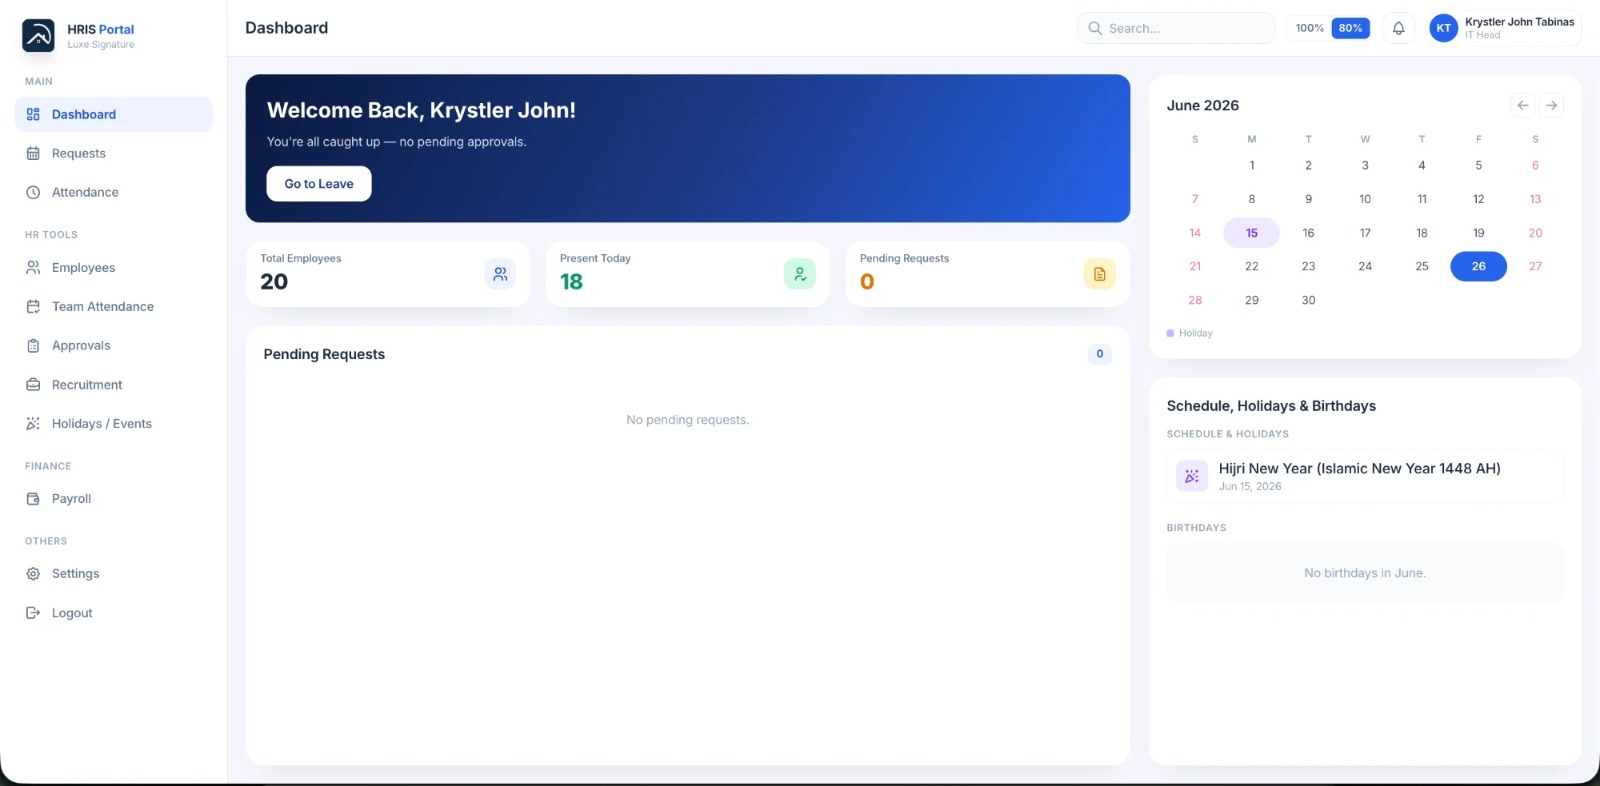
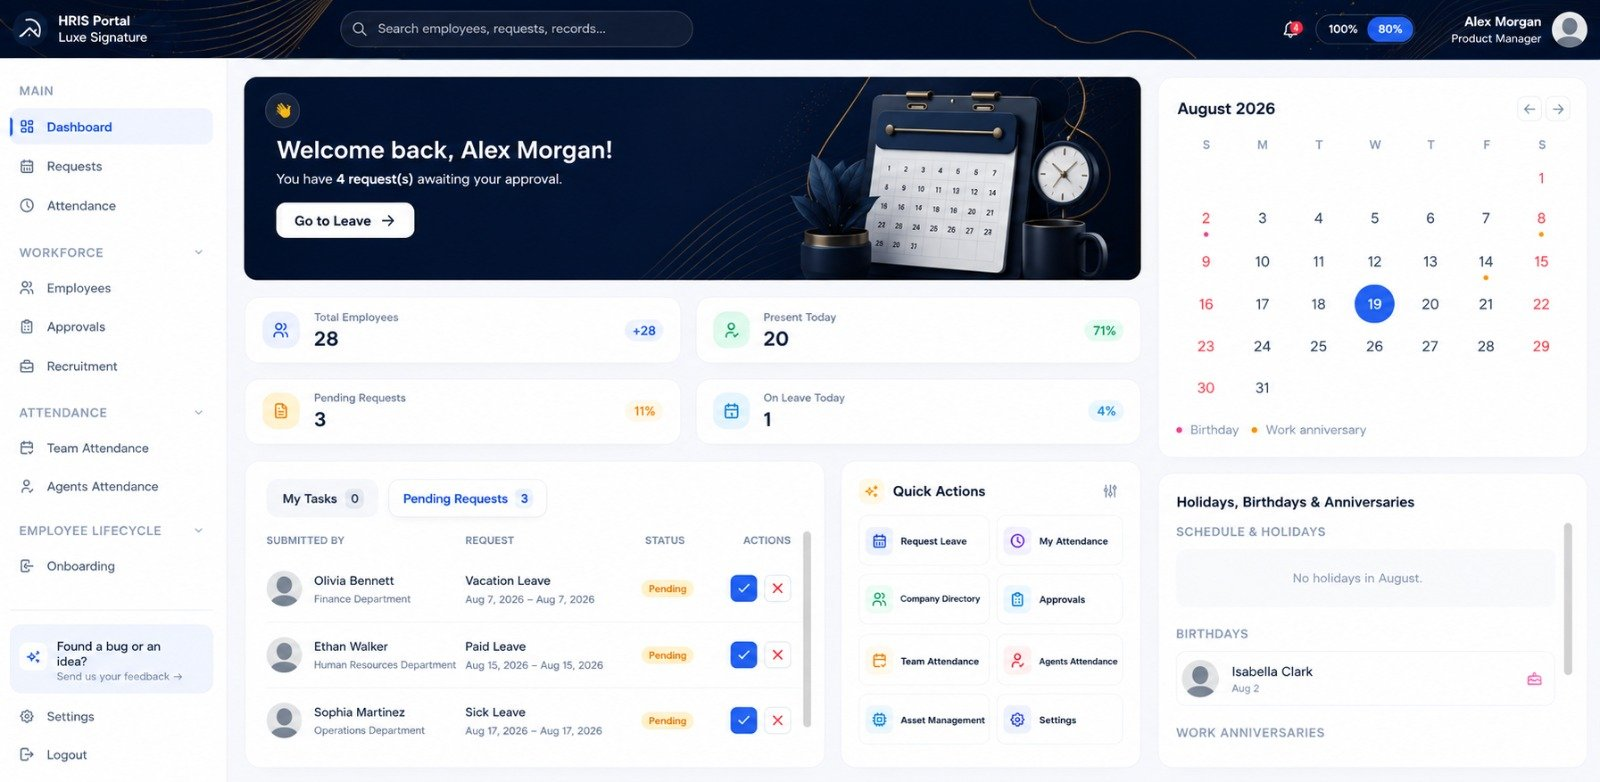
Add Maal budget tracker project and refresh HRIS
Projects section:
- Add Maal as the newest project: a wide branded cover slide plus five
  device-framed app screens (dashboard, wallet, budget, goals, installments).
- Rename "Luxe HRIS" to "HRIS" and drop the client name from its blurb.
- Replace every HRIS screenshot with the new set — cover banner, dashboard,
  employee directory, approvals and profile.

Carousel rendering:
- New hasDeviceFrame flag: screenshots that already ship inside a rendered
  phone are shown as-is instead of being wrapped in the site's phone shell
  a second time.
- New bannerCover flag: a wide marketing banner fills the panel edge to edge
  rather than being letterboxed next to the portrait phone shots.
- Pull the carousel dots and the slide label out into shared widgets so both
  the framed and unframed paths use them; dots take a light palette on the
  banner slide so they read against the artwork.

Assets are cropped to the artwork, knocked out to transparency where they
sat on a solid page, downscaled and re-encoded — the six Maal images total
~520 KB and the five HRIS images ~720 KB. Source uploads at the assets/ root
are removed now that the processed copies exist.

Skills: add React Native, Expo and TypeScript.

Claude-Session: https://claude.ai/code/session_01BUVkvsR43W9QivpnnKvxp7

diff --git a/lib/sections/projects_section.dart b/lib/sections/projects_section.dart
@@ -21,6 +21,12 @@ class ProjectItem {
   final Color accentColor;
   final String status;
   final bool isMobileApp;
+  /// True when the screenshots already ship inside a rendered device frame, so
+  /// the site must not wrap them in its own phone shell a second time.
+  final bool hasDeviceFrame;
+  /// True when the first slide is a wide marketing banner rather than a screen,
+  /// so it fills the panel instead of being letterboxed with the phone shots.
+  final bool bannerCover;
   final bool isCodeProject;
   final String? liveUrl;
   final String? browserUrl;
@@ -37,6 +43,8 @@ class ProjectItem {
     required this.accentColor,
     required this.status,
     this.isMobileApp = false,
+    this.hasDeviceFrame = false,
+    this.bannerCover = false,
     this.isCodeProject = false,
     this.liveUrl,
     this.browserUrl,
@@ -45,6 +53,38 @@ class ProjectItem {
 }
 
 const _projects = [
+  ProjectItem(
+    title: 'Maal',
+    subtitle: 'Offline-First Budget Tracker for the Gulf',
+    description:
+        'A personal finance app built for how money actually moves in the Gulf. Tracks '
+        'multi-currency accounts and net worth, pace-aware budgets, savings goals, and '
+        'BNPL and loan installments — with full Arabic RTL, a 50+ GCC bank catalog, and '
+        'IBAN validation. Everything lives in on-device SQLite: no account, no server, '
+        'no analytics.',
+    image: 'assets/images/cover_maal.jpg',
+    imageAlt: 'assets/images/maal_dashboard.png',
+    extraImages: [
+      'assets/images/maal_wallet.png',
+      'assets/images/maal_budget.png',
+      'assets/images/maal_goals.png',
+      'assets/images/maal_installments.png',
+    ],
+    tags: ['React Native', 'Expo', 'TypeScript', 'SQLite', 'Offline-First', 'UAE / GCC'],
+    accentColor: Color(0xFF0A2C63),
+    status: 'In Development',
+    isMobileApp: true,
+    hasDeviceFrame: true,
+    bannerCover: true,
+    imageLabels: [
+      'Overview',
+      'Dashboard',
+      'Wallet',
+      'Budget',
+      'Goals',
+      'Installments',
+    ],
+  ),
   ProjectItem(
     title: 'Luxe PM',
     subtitle: 'Property Management Platform',
@@ -64,24 +104,24 @@ const _projects = [
     imageLabels: ['Overview', 'Login', 'Dashboard'],
   ),
   ProjectItem(
-    title: 'Luxe HRIS',
+    title: 'HRIS',
     subtitle: 'Human Resource Information System',
     description:
-        'A complete HRIS built from scratch for Luxe Signature. Handles employee records, '
-        'biometric attendance sync, leave and cash-advance requests, approval workflows, '
-        'payroll, and recruitment — with role-based dashboards and self-service for every employee.',
-    image: 'assets/images/cover_hris.png',
+        'A complete HRIS built from scratch. Handles employee records, biometric '
+        'attendance sync, leave and cash-advance requests, approval workflows, payroll, '
+        'and recruitment — with role-based dashboards and self-service for every employee.',
+    image: 'assets/images/cover_hris.jpg',
     imageAlt: 'assets/images/hris_dashboard.jpg',
     extraImages: [
-      'assets/images/hris_attendance.jpg',
-      'assets/images/hris_requests.jpg',
+      'assets/images/hris_directory.jpg',
+      'assets/images/hris_approvals.jpg',
       'assets/images/hris_profile.jpg',
     ],
     tags: ['Web App', 'Supabase', 'Workflow Automation', 'Biometric Sync', 'UAE'],
     accentColor: Color(0xFF4F46E5),
     status: 'Live',
     browserUrl: 'hris.luxesignature.ae',
-    imageLabels: ['Overview', 'Dashboard', 'Attendance', 'Requests', 'Profile'],
+    imageLabels: ['Overview', 'Dashboard', 'Directory', 'Approvals', 'Profile'],
   ),
   ProjectItem(
     title: 'Excel VBA Automation',
@@ -393,6 +433,61 @@ class _ScreenshotState extends State<_Screenshot>
               )),
             ],
           ),
+        ),
+      );
+    }
+
+    // Screenshots that already ship inside a device frame — show them as-is,
+    // no second phone shell around them.
+    if (widget.project.hasDeviceFrame) {
+      final images = _images;
+      final isBanner = widget.project.bannerCover && _index == 0;
+      return Container(
+        height: 384,
+        color: AppTheme.bgLight,
+        child: Stack(
+          children: [
+            Positioned.fill(
+              child: Padding(
+                padding: isBanner
+                    ? EdgeInsets.zero
+                    : const EdgeInsets.fromLTRB(24, 14, 24, 34),
+                child: FadeTransition(
+                  opacity: _fade,
+                  child: Image.asset(
+                    images[_index],
+                    fit: isBanner ? BoxFit.cover : BoxFit.contain,
+                    errorBuilder: (_, __, ___) => Center(
+                      child: Icon(Icons.smartphone_rounded,
+                          size: 48, color: widget.project.accentColor),
+                    ),
+                  ),
+                ),
+              ),
+            ),
+            if (images.length > 1)
+              Positioned(
+                bottom: 14,
+                left: 0,
+                right: 0,
+                child: _DotRow(
+                  count: images.length,
+                  index: _index,
+                  activeColor: isBanner
+                      ? Colors.white
+                      : widget.project.accentColor,
+                  inactiveColor: isBanner
+                      ? Colors.white.withValues(alpha: 0.45)
+                      : AppTheme.textLight.withValues(alpha: 0.4),
+                ),
+              ),
+            if (widget.project.imageLabels.length > _index)
+              Positioned(
+                bottom: 10,
+                right: 14,
+                child: _LabelChip(widget.project.imageLabels[_index]),
+              ),
+          ],
         ),
       );
     }
@@ -734,6 +829,63 @@ class _PhoneMockup extends StatelessWidget {
       ],
     );
   }
+}
+
+class _DotRow extends StatelessWidget {
+  final int count;
+  final int index;
+  final Color activeColor;
+  final Color? inactiveColor;
+  const _DotRow({
+    required this.count,
+    required this.index,
+    required this.activeColor,
+    this.inactiveColor,
+  });
+
+  @override
+  Widget build(BuildContext context) => Row(
+        mainAxisAlignment: MainAxisAlignment.center,
+        children: List.generate(count, (i) {
+          final active = i == index;
+          return AnimatedContainer(
+            duration: const Duration(milliseconds: 300),
+            margin: const EdgeInsets.symmetric(horizontal: 3),
+            width: active ? 20 : 6,
+            height: 6,
+            decoration: BoxDecoration(
+              color: active
+                  ? activeColor
+                  : (inactiveColor ??
+                      AppTheme.textLight.withValues(alpha: 0.4)),
+              borderRadius: BorderRadius.circular(3),
+            ),
+          );
+        }),
+      );
+}
+
+class _LabelChip extends StatelessWidget {
+  final String label;
+  const _LabelChip(this.label);
+
+  @override
+  Widget build(BuildContext context) => Container(
+        padding: const EdgeInsets.symmetric(horizontal: 10, vertical: 4),
+        decoration: BoxDecoration(
+          color: AppTheme.bgCream.withValues(alpha: 0.9),
+          borderRadius: BorderRadius.circular(20),
+          border: Border.all(color: AppTheme.border),
+        ),
+        child: Text(
+          label,
+          style: GoogleFonts.inter(
+            fontSize: 11,
+            color: AppTheme.textGray,
+            fontWeight: FontWeight.w600,
+          ),
+        ),
+      );
 }
 
 class _Dot extends StatelessWidget {

diff --git a/lib/data/portfolio_data.dart b/lib/data/portfolio_data.dart
@@ -60,8 +60,11 @@ class PortfolioData {
     'n8n',
     'Power Platform',
     'Flutter',
+    'React Native',
+    'Expo',
     'Python',
     'JavaScript',
+    'TypeScript',
     'Power BI',
   ];
 

diff --git a/README.md b/README.md
@@ -42,6 +42,9 @@ Then upload the `build/web/` folder to any static host (Netlify, Vercel, GitHub 
 - **Skills** — Tech skill chips + expertise list with scroll-trigger stagger animations
 - **Experience** — Alternating left/right timeline cards, 7 roles across Philippines & UAE
 - **Education** — Flip-in education cards + training/achievement cards
+- **Projects** — 3D tilt cards with auto-advancing screenshot carousels (browser
+  mockup for web apps, device-framed screens for mobile apps, code panel for
+  script projects)
 - **Contact** — CTA footer with email, phone, location cards
 
 ## Customize
